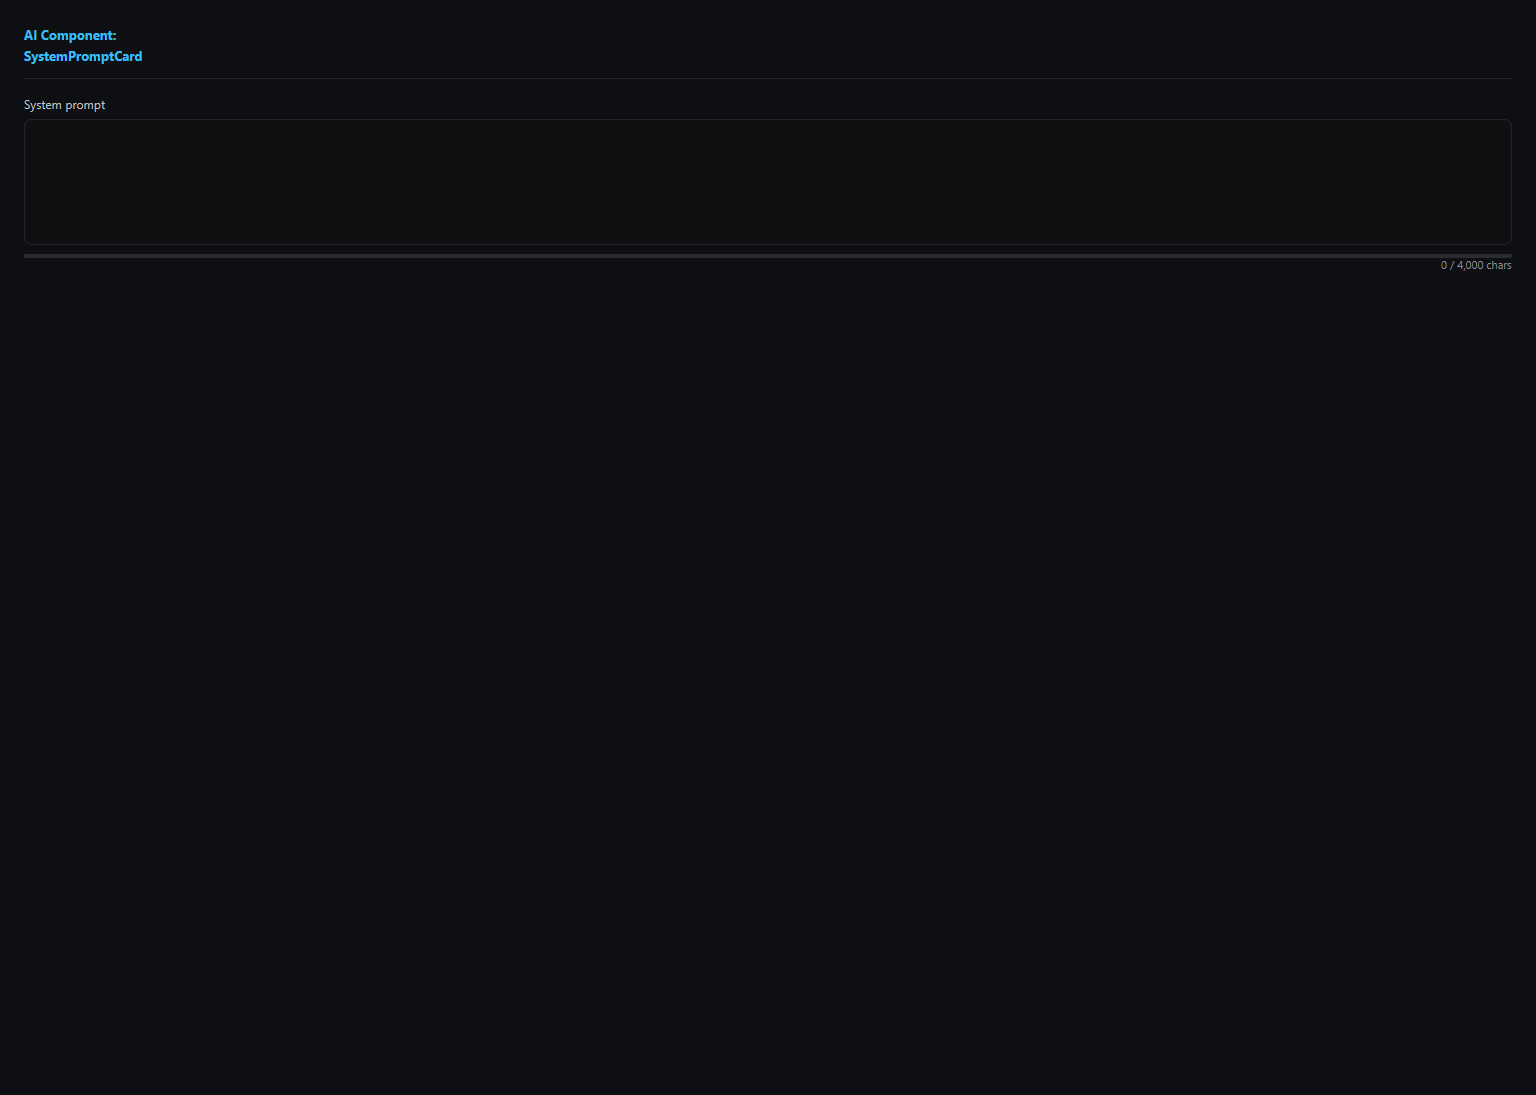
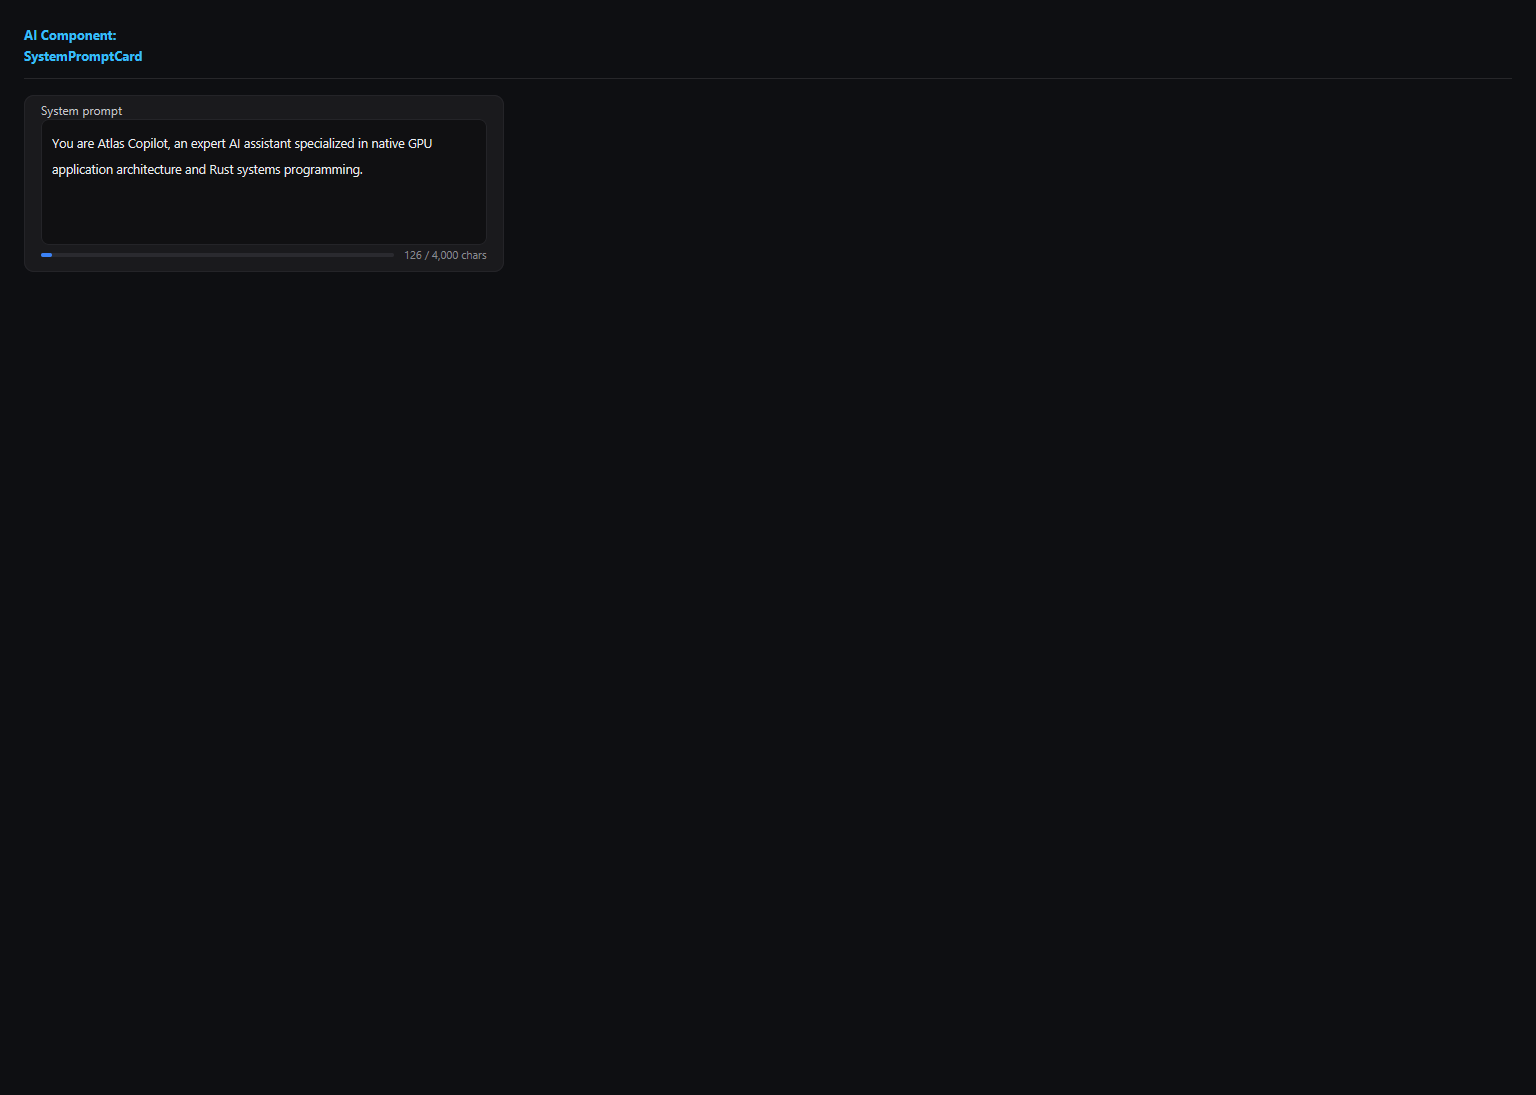
fix(ai): polish SystemPromptCard spacing

Changed region(s): [[0.3438, 0.2174, 1.0, 0.2484], [0.0312, 0.0932, 0.2812, 0.1553], [0.2812, 0.2174, 0.3125, 0.2484]]

diff --git a/packages/ui/src/ai/SystemPromptCard.tsx b/packages/ui/src/ai/SystemPromptCard.tsx
@@ -1,12 +1,10 @@
 /**
  * @atlas/ui — SystemPromptCard
  *
- * An editable system prompt with a live character budget (composes `Field` +
- * `ProgressBar`).
+ * An editable system prompt with a live character budget (composes `ProgressBar`).
  */
-import { border, text as textTokens } from '../tokens'
+import { surface, border, text as textTokens } from '../tokens'
 import { FONT } from '../tokens'
-import { Field } from '../inputs/Field'
 import { ProgressBar } from '../inputs/ProgressBar'
 
 export interface SystemPromptCardProps {
@@ -14,14 +12,19 @@ export interface SystemPromptCardProps {
   onChange?: (value: string) => void
   label?: string
   maxLength?: number
+  /** When true, omits outer card chrome for embedding inside FormCard. */
+  embedded?: boolean
 }
 
-export function SystemPromptCard({ value = '', onChange, label = 'System prompt', maxLength = 4000 }: SystemPromptCardProps) {
+export function SystemPromptCard({ value = '', onChange, label = 'System prompt', maxLength = 4000, embedded = false }: SystemPromptCardProps) {
   const pct = Math.min(100, (value.length / maxLength) * 100)
   const over = value.length > maxLength
 
-  return (
-    <Field label={label}>
+  const content = (
+    <div style={{ display: 'flex', flexDirection: 'column', gap: 8, width: '100%' }}>
+      <text style={{ fontSize: 12, fontWeight: 600, color: textTokens.secondary, fontFamily: FONT, lineHeight: 1.2 }}>
+        {label}
+      </text>
       <textarea
         value={value}
         minRows={4}
@@ -29,14 +32,37 @@ export function SystemPromptCard({ value = '', onChange, label = 'System prompt'
         onChange={(e) => onChange?.(e.value ?? '')}
         style={{ fontSize: 12.5, color: textTokens.primary, fontFamily: FONT, backgroundColor: '#101012', borderRadius: 8, borderWidth: 1, borderColor: border.subtle, padding: 10, lineHeight: 1.5 }}
       />
-      <div style={{ display: 'flex', flexDirection: 'column', gap: 6, marginTop: 4, width: '100%' }}>
-        <ProgressBar value={pct} height={4} color={over ? '#ED4245' : '#3B82F6'} />
-        <div style={{ display: 'flex', flexDirection: 'row', justifyContent: 'flex-end', alignItems: 'center' }}>
-          <text style={{ fontSize: 11, color: over ? '#ED4245' : textTokens.muted, fontFamily: FONT, whiteSpace: 'nowrap', lineHeight: 1 }}>
-            {`${value.length.toLocaleString()} / ${maxLength.toLocaleString()} chars`}
-          </text>
+      <div style={{ display: 'flex', flexDirection: 'row', alignItems: 'center', gap: 10, width: '100%' }}>
+        <div style={{ flexGrow: 1 }}>
+          <ProgressBar value={pct} height={4} color={over ? '#ED4245' : '#3B82F6'} />
         </div>
+        <text style={{ fontSize: 11, color: over ? '#ED4245' : textTokens.muted, fontFamily: FONT, whiteSpace: 'nowrap', lineHeight: 1, flexShrink: 0 }}>
+          {`${value.length.toLocaleString()} / ${maxLength.toLocaleString()} chars`}
+        </text>
       </div>
-    </Field>
+    </div>
+  )
+
+  if (embedded) return content
+
+  return (
+    <div
+      style={{
+        display: 'flex',
+        flexDirection: 'column',
+        paddingLeft: 16,
+        paddingRight: 16,
+        paddingTop: 14,
+        paddingBottom: 14,
+        borderRadius: 10,
+        borderWidth: 1,
+        borderColor: border.subtle,
+        backgroundColor: surface.card,
+        width: 480,
+        alignSelf: 'flex-start',
+      }}
+    >
+      {content}
+    </div>
   )
 }

diff --git a/packages/ui/src/ai/PromptSettings.tsx b/packages/ui/src/ai/PromptSettings.tsx
@@ -20,7 +20,7 @@ export function PromptSettings({ models, model, onModelChange, sampler, onSample
     <FormCard title="Prompt settings" onSubmit={onSave} width={480}>
       {models ? <ModelPicker models={models} value={model} onChange={onModelChange} /> : null}
       {sampler && onSamplerChange ? <SamplerControls values={sampler} onChange={onSamplerChange} /> : null}
-      <SystemPromptCard value={systemPrompt ?? ''} onChange={onSystemPromptChange} />
+      <SystemPromptCard value={systemPrompt ?? ''} onChange={onSystemPromptChange} embedded />
     </FormCard>
   )
 }

diff --git a/scripts/verify-all-ai-components.tsx b/scripts/verify-all-ai-components.tsx
@@ -235,7 +235,7 @@ const sampleProps: Record<string, any> = {
     content: '### Streaming Response\n\nAtlas UI is fast.'
   },
   SystemPromptCard: {
-    prompt: 'You are an autonomous AI coding engineer.'
+    value: 'You are an autonomous AI coding engineer.'
   },
   TaskDoneBanner: {
     title: 'Refactoring Finished',
